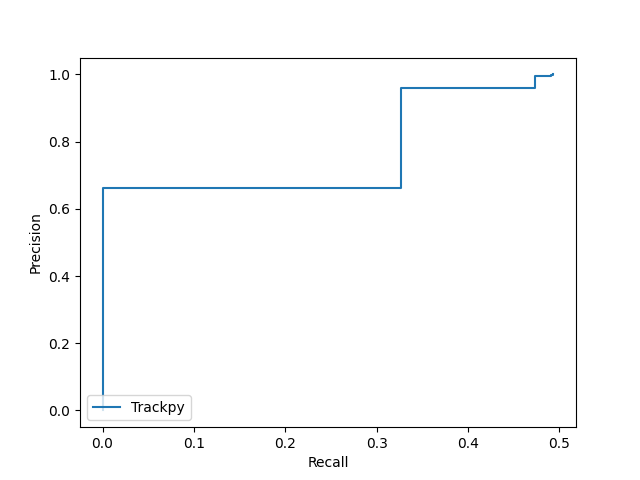
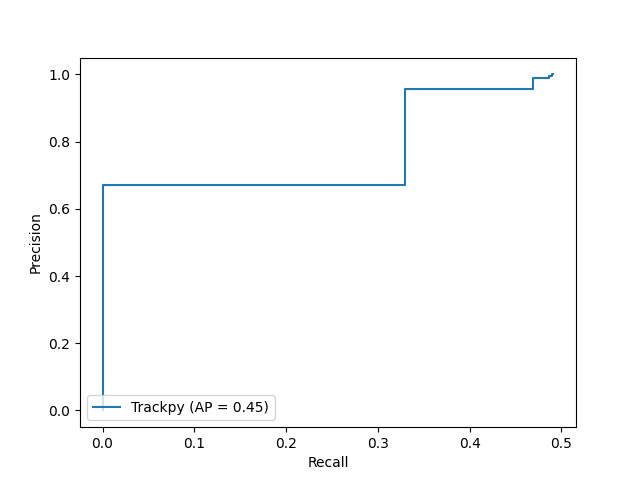
reformatting

diff --git a/src/colloidoscope/deepcolloid.py b/src/colloidoscope/deepcolloid.py
@@ -125,3 +125,118 @@ class DeepColloid:
 		bin_centres = (bins[1:] + bins[:-1]) / 2
 		return bin_centres, hist # as x, y
 
+	def average_precision(self, ground_truths, predictions, diameter=10):
+
+		def calc_iou_individual(center1, center2, diameter,):
+			r = diameter / 2
+			c = math.sqrt((center1[0]-center2[0])**2 + (center1[1]-center2[1])**2 + (center1[2]-center2[2])**2)
+			area = math.pi*r**2
+			try:
+				q = 2* math.acos(math.radians(c/2*r))
+				overlap = (r**2)*(q - math.sin(q)) # area of overlap of circles with same r
+			except ValueError:
+				overlap = 0
+			iou = overlap / (area*2 - overlap)
+			return iou
+
+		def get_results(gt, pred, diameter, threshold,):
+
+			tp, fp, fn = 0, 0, 0
+
+			if len(pred) == 0:
+				tp = 0
+				fp = 0
+				fn = len(gt)
+				return tp, fp, fn
+			if len(gt) == 0:
+				tp = 0
+				fp = len(pred)
+				fn = 0
+				return tp, fp, fn
+			
+			gt_idx_thresh = []
+			pred_idx_thresh = []
+			ious = []
+			for ipb, pred_pos in enumerate(pred):
+				for igb, gt_pos in enumerate(gt):
+					iou = calc_iou_individual(pred_pos, gt_pos, diameter)
+					if iou > threshold:
+						gt_idx_thresh.append(igb)
+						pred_idx_thresh.append(ipb)
+						ious.append(iou)
+
+			# sort by iou
+			args_desc = np.argsort(ious)[::-1]
+
+			if len(args_desc) == 0:
+				# No matches
+				tp = 0
+				fp = len(pred)
+				fn = len(gt)
+			else:
+				gt_match_idx = []
+				pred_match_idx = []
+				for idx in args_desc:
+					gt_idx = gt_idx_thresh[idx]
+					pr_idx = pred_idx_thresh[idx]
+					# If the boxes have not been matched, add them to matches
+					if (gt_idx not in gt_match_idx) and (pr_idx not in pred_match_idx):
+						gt_match_idx.append(gt_idx)
+						pred_match_idx.append(pr_idx)
+				tp = len(gt_match_idx)
+				fp = len(pred) - len(pred_match_idx)
+				fn = len(gt) - len(gt_match_idx)
+
+			return tp, fp, fn
+
+		def get_precision_recall(ground_truths, predictions, diameter, threshold):
+
+			precisions = []
+			recalls = []
+			for gt, pred in zip(ground_truths, predictions):
+				tp, fp, fn = get_results(gt, pred, diameter, threshold,)
+
+				try:
+					prec = tp/(tp + fp)
+				except ZeroDivisionError:
+					prec = 0.0
+				try:
+					rec = tp/(tp + fn)
+				except ZeroDivisionError:
+					rec = 0.0
+				
+				precisions.append(prec)
+				recalls.append(rec)
+				
+			return np.mean(precisions), np.mean(recalls)
+
+		print('Calculating average precision, threshold:')
+
+		precisions = []
+		recalls = []
+		thresholds = np.linspace(0,1,11)
+		for thresh in thresholds:
+			print(thresh)
+			prec, rec = get_precision_recall(ground_truths, predictions, diameter, thresh,)
+			# precisions = precisions + prec
+			# recalls = recalls + rec
+			precisions.append(prec)
+			recalls.append(rec)
+		precisions = np.array(precisions)
+		recalls = np.array(recalls)
+		
+		prec_at_rec = []
+		for recall_level in np.linspace(0.0, 1.0, 11):
+			try:
+				args = np.argwhere(recalls >= recall_level).flatten()
+				prec = max(precisions[args])
+			except ValueError:
+				prec = 0.0
+			prec_at_rec.append(prec)
+		avg_prec = np.mean(prec_at_rec)
+
+		return precisions, recalls, avg_prec
+
+
+
+

diff --git a/scripts/trackpy_accuracy.py b/scripts/trackpy_accuracy.py
@@ -1,0 +1,60 @@
+import numpy as np
+import matplotlib.pyplot as plt 
+import trackpy as tp
+from src.deepcolloid import DeepColloid
+from sklearn import metrics
+
+if __name__ == '__main__':
+	# reader = explore_lif.Reader('Data/i-ii.lif')
+	# series = reader.getSeries()
+	# chosen = series[5]  # choose first image in the lif file
+	# # get a numpy array corresponding to the 1st time point & 1st channel
+	# # the shape is (x, y, z)
+	# video = [chosen.getXYZ(T=t, channel=0) for t in range(chosen.getNbFrames())]
+	# video = np.array(video)
+	# print(video.shape)
+	# t, x, y, z
+
+	dataset_path = '/home/ak18001/Data/HDD/Colloids'
+	# dataset_path = '/home/wahab/Data/HDD/Colloids'
+	# dataset_path = '/mnt/storage/home/ak18001/scratch/Colloids'
+	dc = DeepColloid(dataset_path)
+
+	roiSize = (32,128,128)
+	threshold = 0.9
+	weights_path =  'output/weights/unet.pt'
+	dataset_name = 'replicate'
+
+
+	multi_gt_pos = []
+	multi_pred_pos = []
+	for i in range(20, 45):
+		canvas, gt_positions = dc.read_hdf5(dataset_name, i, return_positions=True)
+
+		f = tp.locate(canvas, 9)
+		f = [list(f[:]['z']), list(f[:]['y']), list(f[:]['x'])]
+		new = []
+		for i in range(0, len(f[0])):
+			new.append([ f[0][i], f[1][i], f[2][i] ])
+		tp_predictions = np.array(new)
+
+		multi_gt_pos.append(gt_positions)
+		multi_pred_pos.append(tp_predictions)
+	multi_gt_pos = np.array(multi_gt_pos)
+	multi_pred_pos = np.array(multi_pred_pos)
+
+	precisions, recalls, ap = dc.average_precision(multi_gt_pos, multi_pred_pos)
+	
+	# recalls = np.array([1-r for r in recalls])
+	# precisions = np.array([1-p for p in precisions])
+
+	display = metrics.PrecisionRecallDisplay(precision=precisions, recall=recalls, average_precision=ap, estimator_name='Trackpy').plot()
+	fig = display.figure_
+
+	plt.savefig('output/trackpyroc.png')
+
+	# plt.show()
+	# fig = plot_pr_curve(precisions, recalls)
+
+
+
